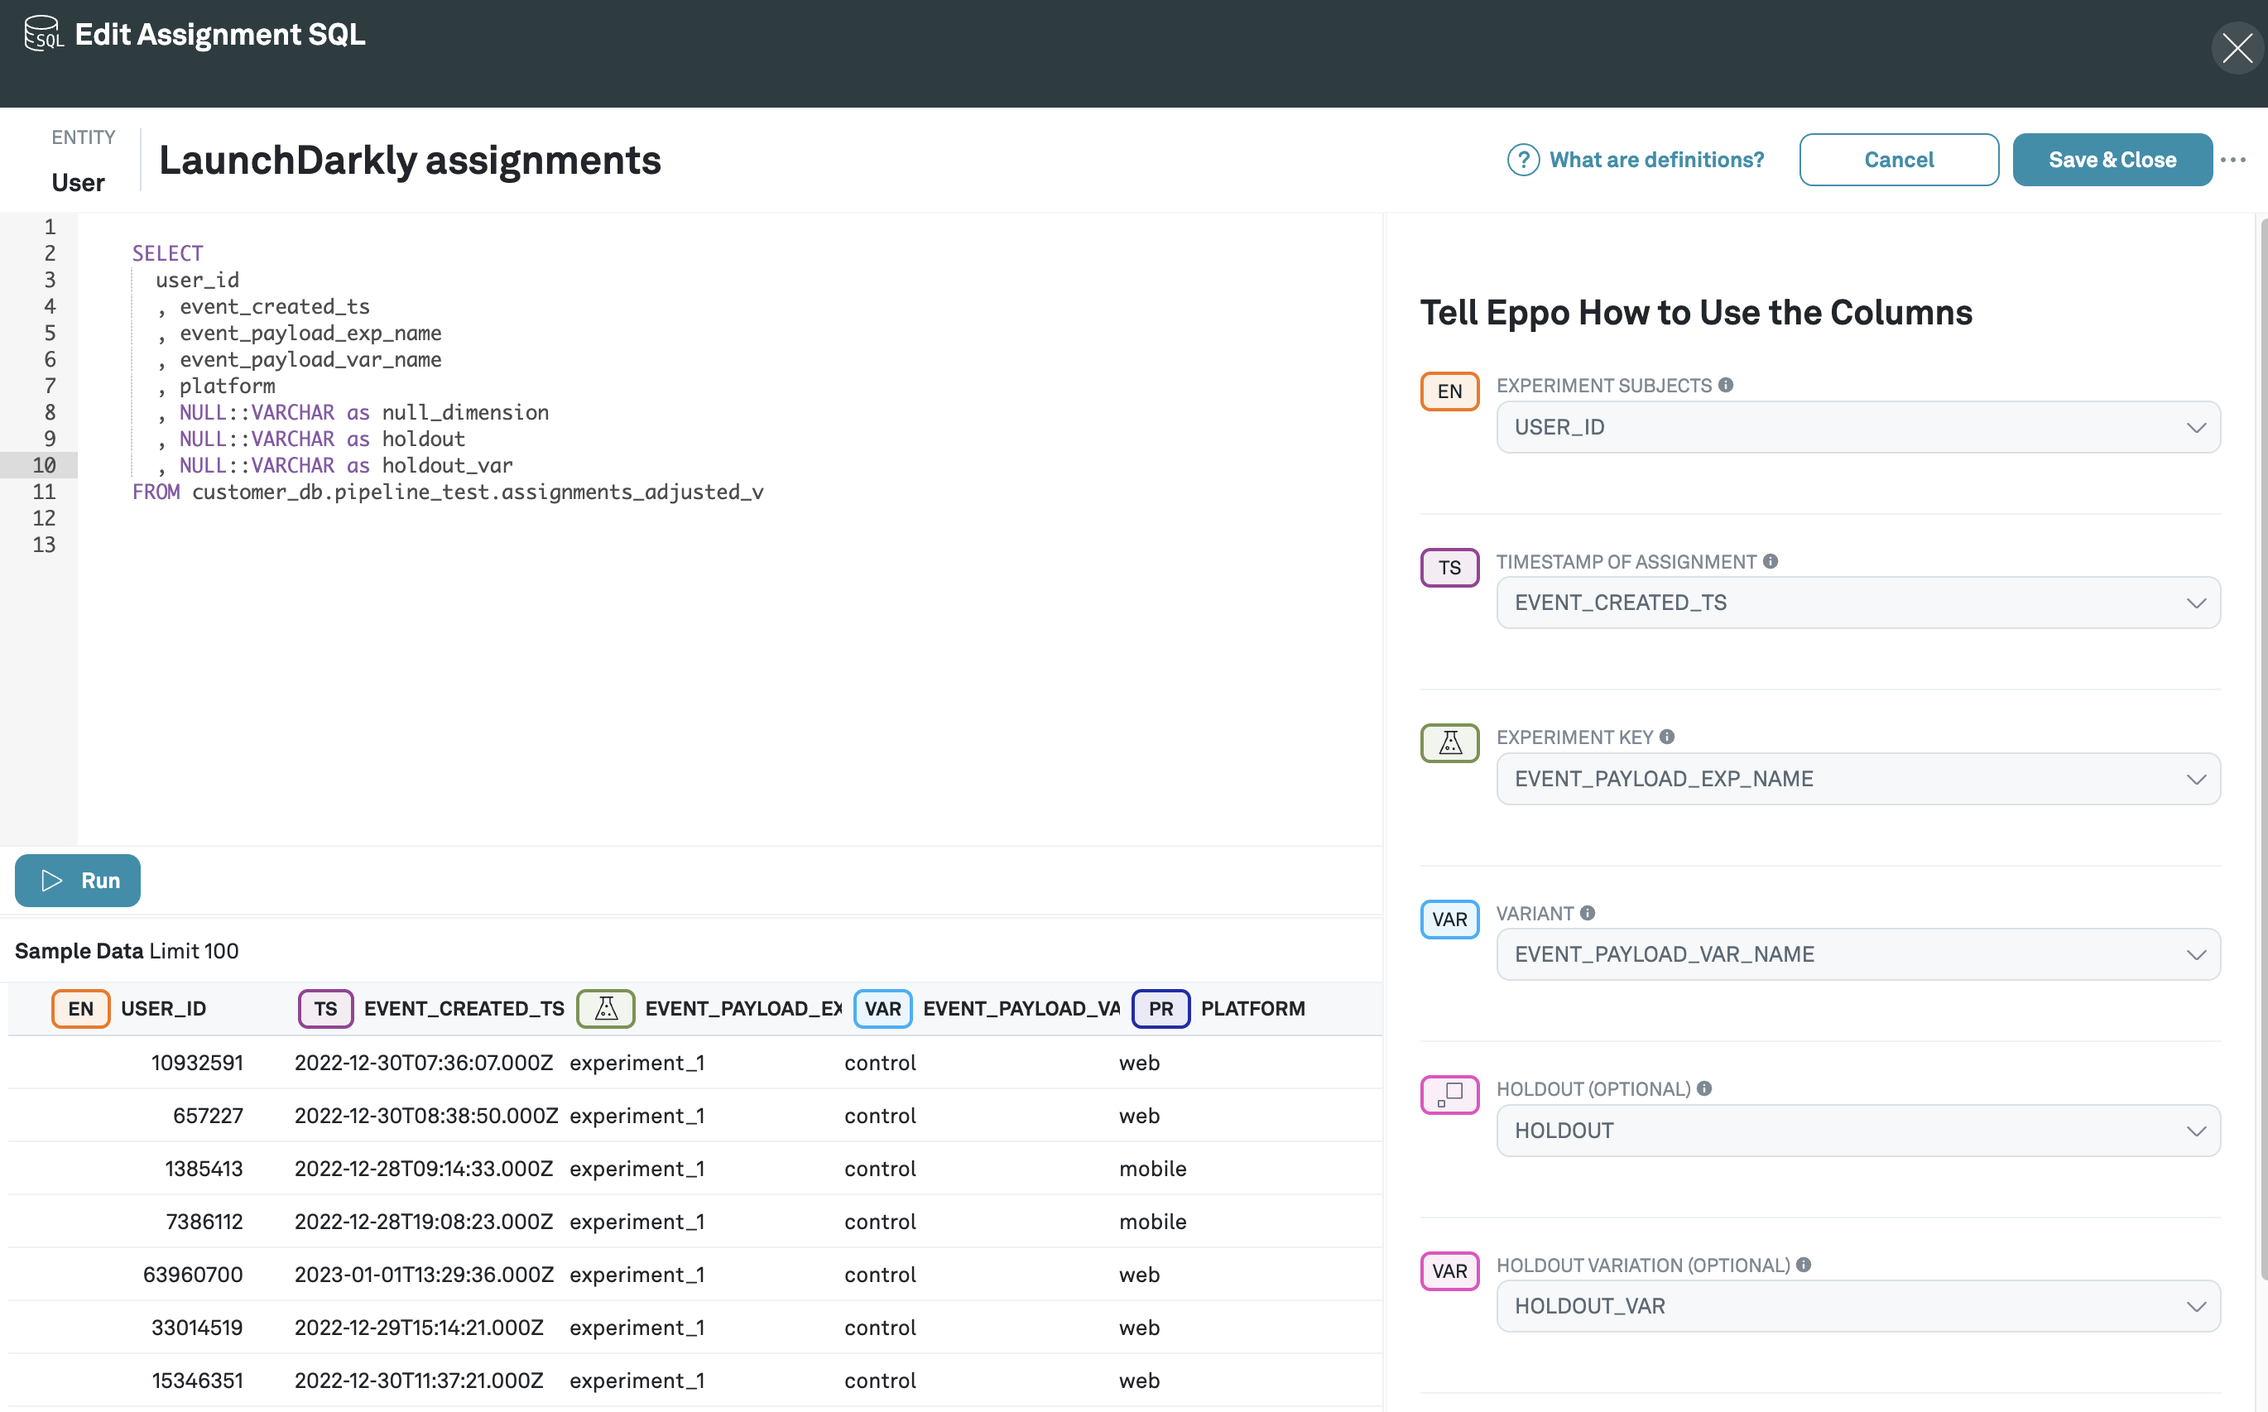
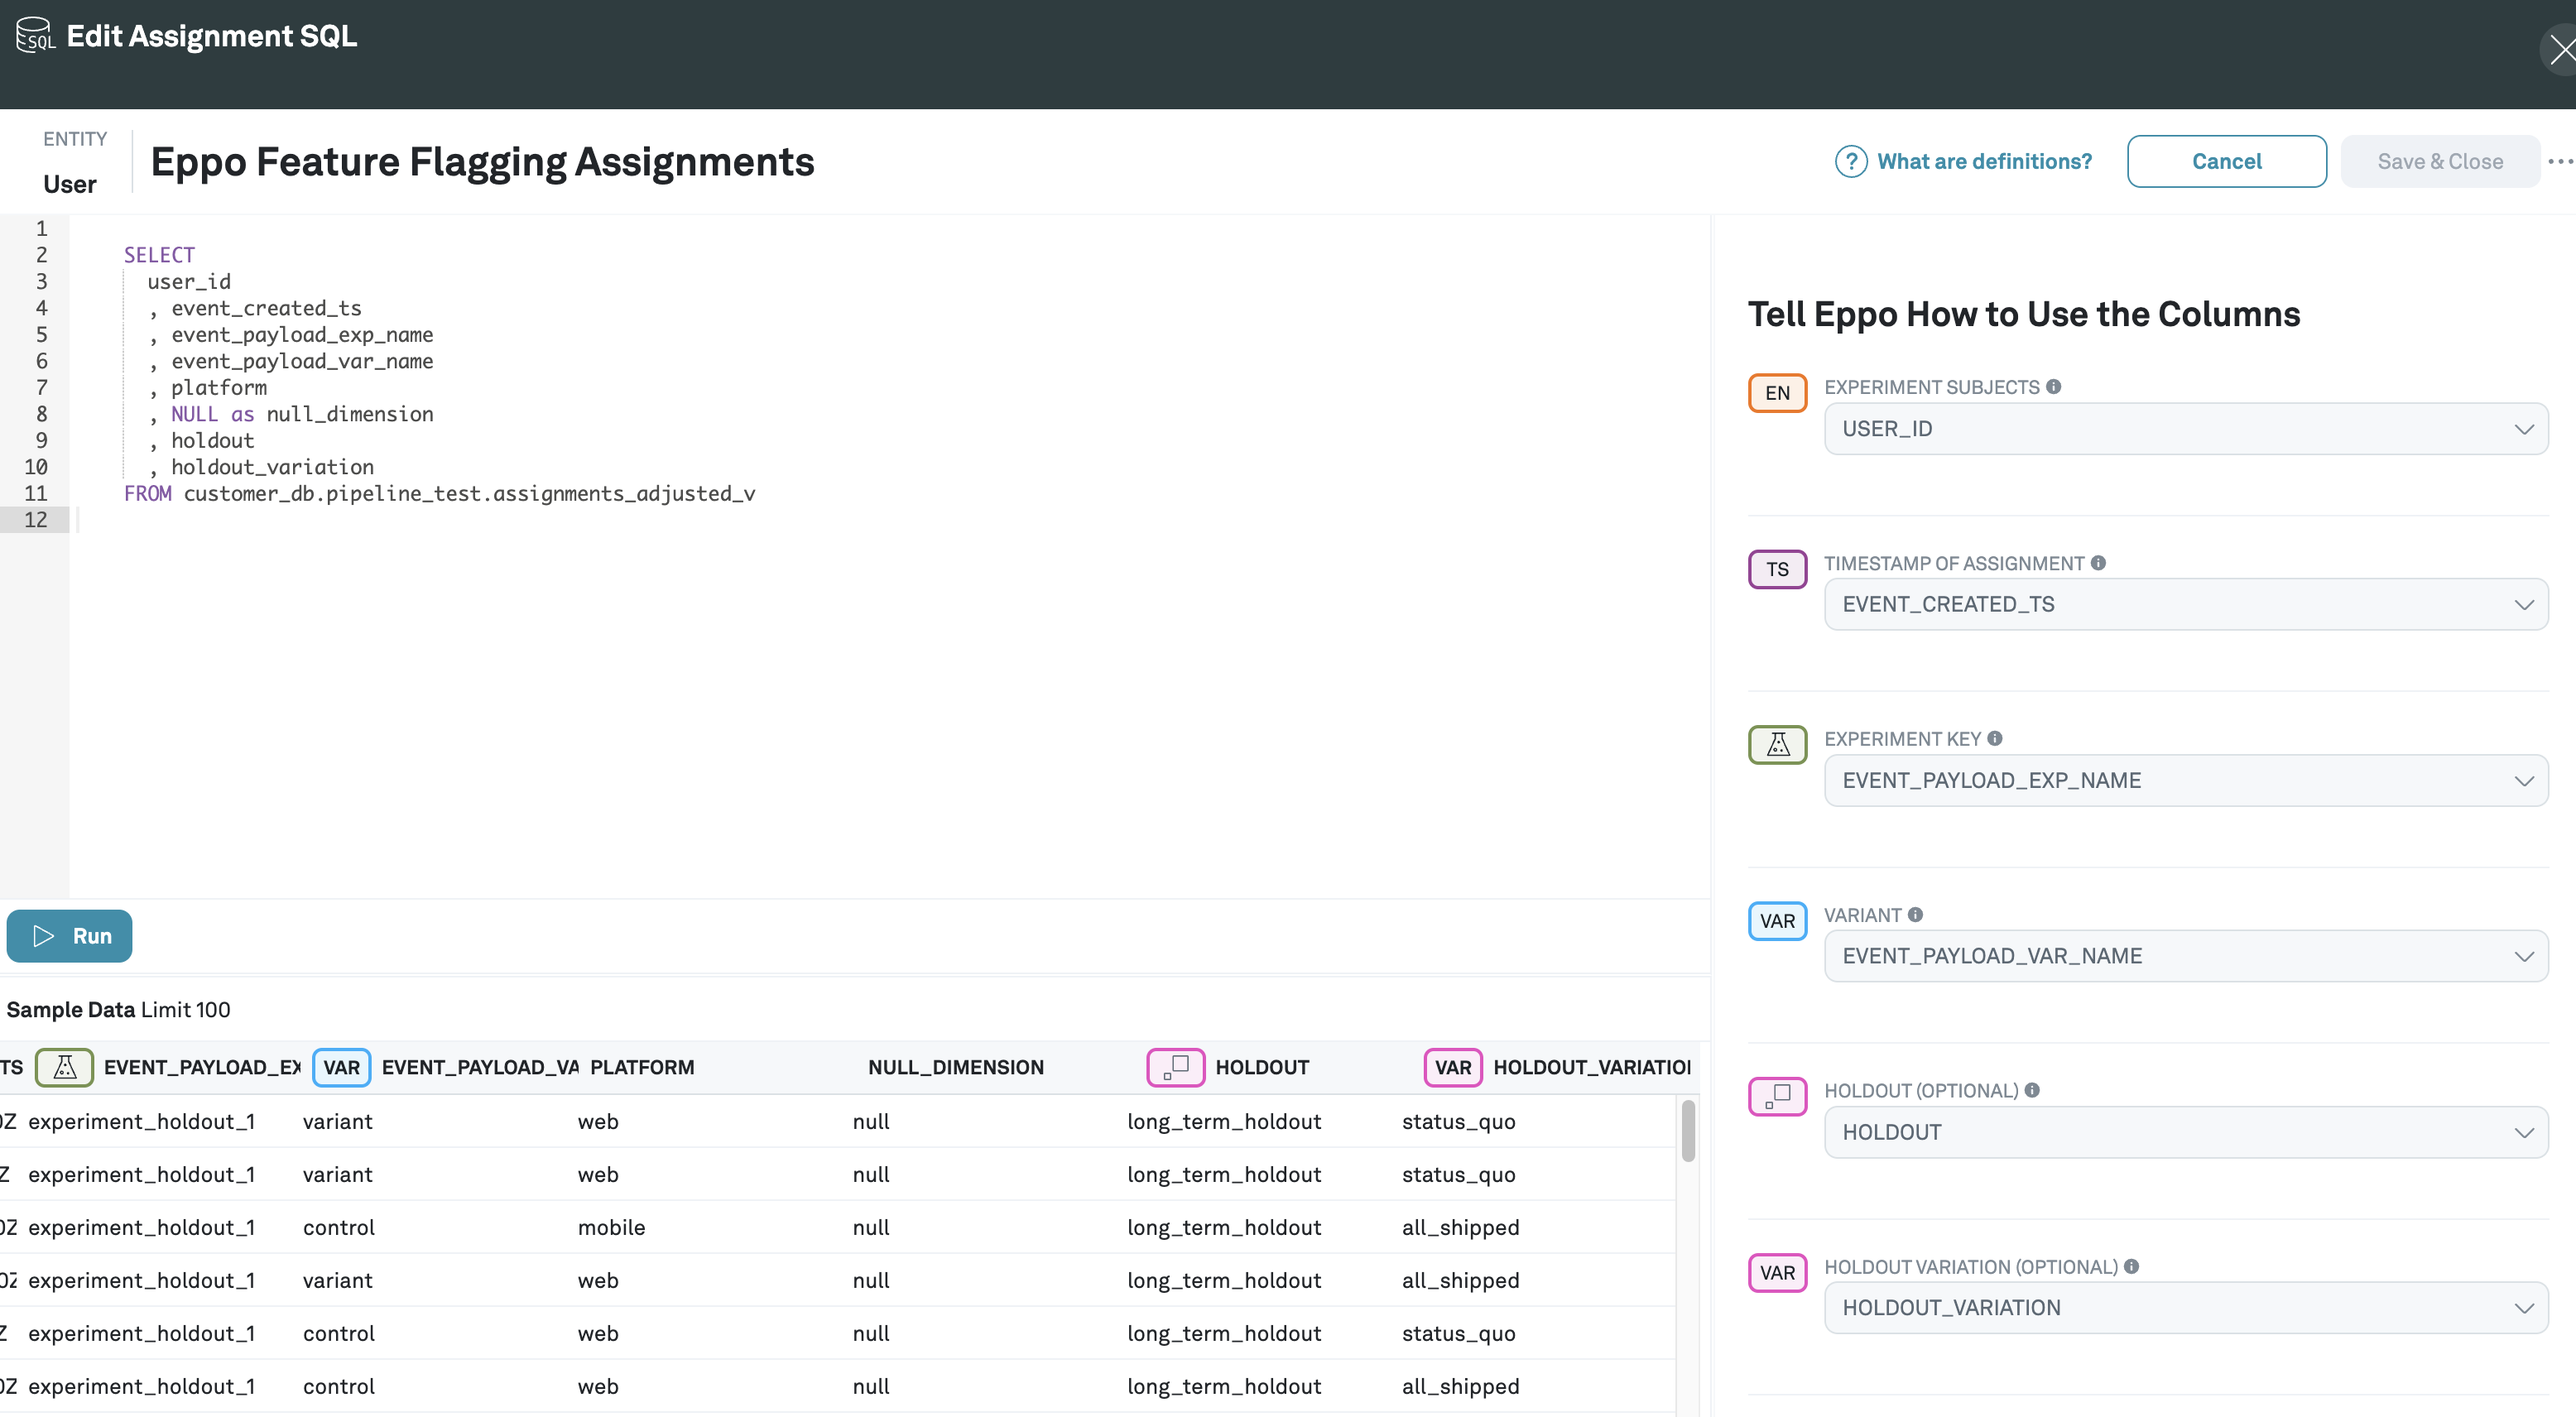
add analysis only section

diff --git a/docs/experiments/holdouts.md b/docs/experiments/holdouts.md
@@ -7,7 +7,31 @@ Eppo's Holdout Analysis allows your company to validate the impact of Experiment
 This functionality offers the ability to set a holdout audience in feature flags that keeps an audience isolated from all active experiments, 
 and measures metric changes for the holdout audience versus an audience that only experiences winning experiments.
 
-## Journey of a Holdout user
+The feature can be used with Eppo's SDK for an end-to-end managed experiment or in an Analysis-Only mode where you use an external randomization library.
+
+## Analysis Only
+
+Ensure an Assignment Source contains information about your holdouts in the `experiment` and `variant` columns. 
+This process might only be performed once and re-used across many analyses.
+
+![Verify assignment source](/img/experiments/holdouts/standalone-assignment-sql.png)
+
+Create a stand-alone analysis experiment over your desired date range and link any experiments to include in the attribution.
+
+![Create a stand-alone analysis](/img/experiments/holdouts/analysis-only-setup1.png)
+
+Configuration the analysis with the variation names in your holdout, such as `status_quo` and `all_shipped`. 
+This allows the Eppo generated SQL to correctly query the data in your warehouse.
+
+![Configure variations](/img/experiments/holdouts/standalone-variations.png)
+
+The analysis will compute results daily over your desired interval.
+
+## Using Eppo SDKs
+
+Begin by [configuring your Assignment Source](/data-management/definitions/assignment-sql) to annotate your holdout columns.
+
+### Journey of a Holdout user
 
 Define one or more holdout groups with a relevant key and the desired active date range. You can have multiple holdout groups running at once (e.g one for each team that runs experiments).
 
@@ -41,9 +65,7 @@ You may begin an analysis at the conclusion of your desired assignment period by
 2. For that holdout group, after the evaluation period finishes, end the holdout group. 
 3. A report can now be generated reflecting data from the evaluation period showing how the holdout group did against users who saw all experiment winners.
 
-![View Holdout Report](/img/experiments/holdouts/holdouts-report.png)
-
-## SDK Behavior
+### SDK Behavior
 
 Application developers should expect no changes to the SDKs.
 
@@ -84,11 +106,16 @@ func (al *ExampleAssignmentLogger) LogAssignment(event eppoclient.AssignmentEven
 }
 ```
 
-## Experiment Analysis
+### Experiment Analysis
 
 Experiments during the enrollment period will proceed like normal on Eppo, 
 with the only divergency being that subjects logged with a `holdout` key will be omitted.
 
 ## Holdout Analysis
 
+Regardless of whether you use Eppo's SDK or your own, the artifact will be a report detailing impact of the holdout variation over the control,
+with annotations display the shipped experiments.
+
 Lift on the primary metric will be computed across the winning variants comparing the holdout subjects against everyone else.
+
+![View Holdout Report](/img/experiments/holdouts/holdouts-report.png)

diff --git a/docs/data-management/definitions/assignment-sql.md b/docs/data-management/definitions/assignment-sql.md
@@ -58,7 +58,7 @@ Your feature flag tooling may have logged additional data about the user, like w
 
 ![Add Assignment SQL Properties](/img/building-experiments/add-assignment-sql-dimensions.png)
 
-Holdout columns are also defined here. More information is available on the [dedicated page](/experiments/holdouts)).
+Holdout columns are also defined here. More information is available on the [dedicated page](/experiments/holdouts).
 
 ![Write Assignment SQL Query](/img/experiments/holdouts/holdouts-assignment-sql.png)
 
